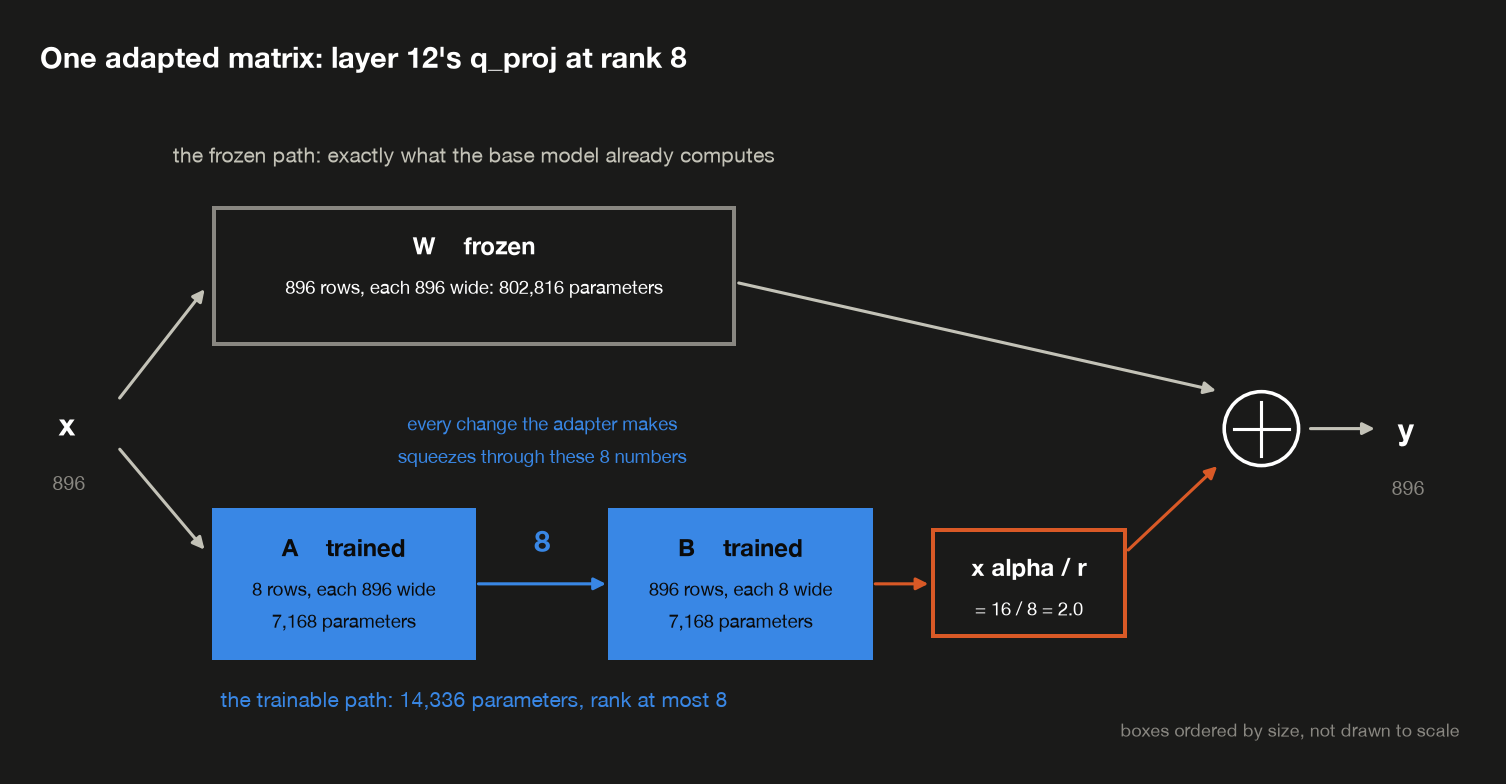
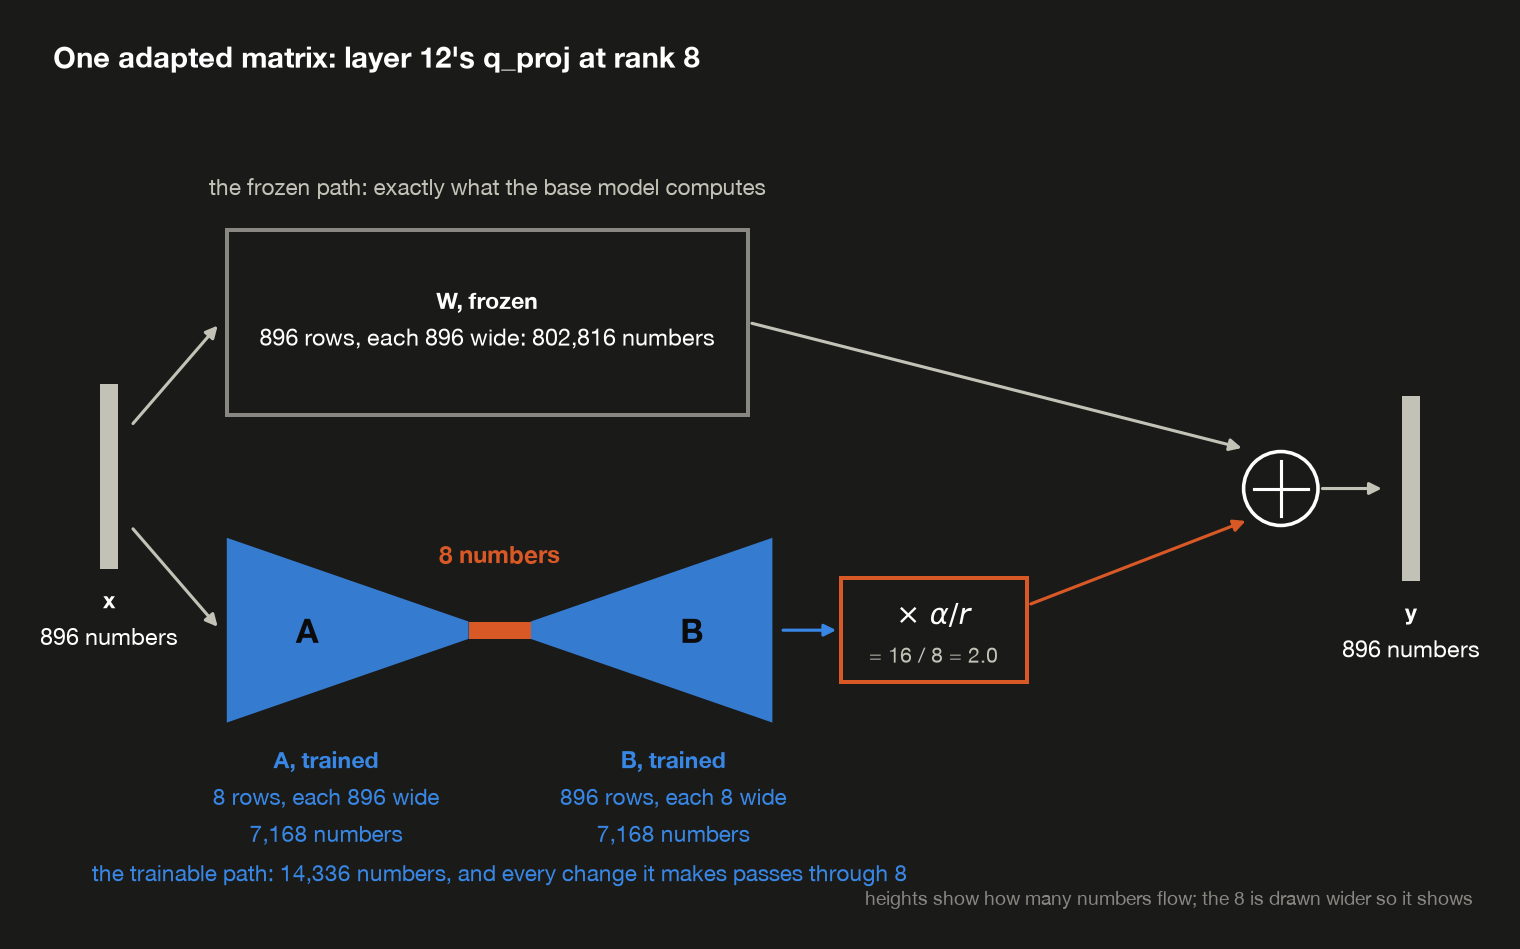
Post 6: rank section rewritten from Han's draft, with a figure; mechanism figure moved to §2 and redrawn

diff --git a/_posts/2026-09-26-llm-architectures-lora.md b/_posts/2026-09-26-llm-architectures-lora.md
@@ -68,16 +68,26 @@ The catch, and the subject of most of this post, is what the overlay is allowed 
 
 That limit is called **rank**, and it's the one idea you need for the rest of this post.
 
-### What rank means, in one paragraph
+### What rank means
 
-A matrix is a grid of numbers, and its **rank** is how many genuinely independent directions of information it holds. A grid of 896 rows and 896 columns *could* hold 896 independent directions, and that's the most it could have. It might hold far fewer: if every row of a matrix is just some multiple of one single row, then however large the grid is, it carries one direction's worth of information, and its rank is 1. **Low rank means a big grid whose contents are simpler than its size suggests.**
+A matrix is a grid of numbers, so start with a small one:
 
-The useful thing is that a low-rank grid can be *built* out of two thin ones. Multiply a grid of 896 rows and 8 columns by a grid of 8 rows and 896 columns and you get a full 896 × 896 grid back, but one that can never have rank above 8, because the 8 in the middle is a bottleneck everything has to squeeze through. That product is what LoRA trains. It's the same shape as the weight it modifies, and [§2](#the-mechanism) shows it's **56× smaller** to store.
+$$
+\begin{pmatrix} 1 & 2 & 3 \\ 2 & 4 & 6 \\ 3 & 6 & 9 \end{pmatrix}
+$$
 
-So the adapter is not an approximation of the model. It's a *complete* change to the weights, drawn under a restriction on how complicated that change may be.
+It has nine numbers, but it isn't really holding nine pieces of information. Every row is just the first row times something: ×1, ×2, ×3. Once you know the row 1 2 3 and the multipliers 1, 2, 3, you can rebuild the whole grid. That's six numbers instead of nine.
 
-![One adapted matrix: the frozen weight on top, the two trainable matrices below it squeezing through a rank-8 bottleneck, the alpha/r scaling, and the sum of the two paths](/assets/picture/2026-09-26-llm-architectures-lora/lora-mechanism-light.png){: .light width="1000" height="521" }
-![One adapted matrix: the frozen weight on top, the two trainable matrices below it squeezing through a rank-8 bottleneck, the alpha/r scaling, and the sum of the two paths](/assets/picture/2026-09-26-llm-architectures-lora/lora-mechanism-dark.png){: .dark width="1000" height="521" }
+That's what **rank** measures: how many independent rows a grid really has, once you set aside the ones you can build by adding up multiples of the others. This grid has rank 1.
+
+Notice how we rebuilt it: a column (the multipliers) times a row. A thin piece times a thin piece gives a full grid. The general rule is that if you multiply a tall, thin grid by a short, wide one, the result is full-sized, but its rank can't exceed the width the two pieces share, because everything has to squeeze through that narrow middle. The figure's middle row shows it with two columns times two rows. The result has three rows, but the third is the first two added together, so its rank is 2.
+
+![What rank means: a 3 by 3 grid rebuilt as a column times a row, a rank-2 grid whose third row is the sum of the first two, and LoRA's 896 by 8 times 8 by 896 product](/assets/picture/2026-09-26-llm-architectures-lora/rank-explained-light.png){: .light width="1000" height="807" }
+![What rank means: a 3 by 3 grid rebuilt as a column times a row, a rank-2 grid whose third row is the sum of the first two, and LoRA's 896 by 8 times 8 by 896 product](/assets/picture/2026-09-26-llm-architectures-lora/rank-explained-dark.png){: .dark width="1000" height="807" }
+
+Now scale up. Take `q_proj`, one of the weight matrices in this post's model: 896 × 896, about 800,000 numbers. LoRA adds two thin matrices beside it, one 896 × 8 and one 8 × 896, and trains only those. Their product is a full 896 × 896 change to the weight, but it can have rank at most 8, and the two thin pieces take 56× less storage than the full grid ([§2](#the-mechanism) counts it).
+
+So the adapter isn't a blurry or partial copy of the model. It's a change to every entry of the full weight matrix, restricted to rank 8. That also makes it an approximation of something else: the change a full fine-tune would have made, which is free to use any rank. Whether the restriction matters depends on whether the change you need is simple enough to fit, and [§6](#why-low-rank-works) measures how far a real full fine-tune's change is from fitting.
 
 The rest of the post asks what that restriction costs. It turns out to depend almost entirely on what you're trying to teach the model, and [§5](#what-rank-buys) measures two tasks that answer the question in opposite directions.
 
@@ -185,6 +195,9 @@ $$y = W x + \frac{\alpha}{r}\,B\,A\,x$$
 Read it right to left. The token's vector $x$ goes two ways. Down the frozen path it meets $W$ and produces exactly what the base model would have produced. Down the trainable path it meets $A$ first, which squeezes 896 numbers down to 8, then $B$, which expands those 8 back out to 896. The two results are added, and the sum is what the next layer sees.
 
 **The bottleneck is the idea.** Everything the adapter can ever do to this matrix has to pass through those 8 numbers in the middle. That's what makes $BA$ a rank-8 matrix no matter how its entries are trained, and it's what makes the adapter small.
+
+![One adapted matrix: the frozen weight W on top; below, A narrows 896 numbers down to 8 and B widens them back to 896, scaled by alpha over r, and the two paths are added](/assets/picture/2026-09-26-llm-architectures-lora/lora-mechanism-light.png){: .light width="1000" height="624" }
+![One adapted matrix: the frozen weight W on top; below, A narrows 896 numbers down to 8 and B widens them back to 896, scaled by alpha over r, and the two paths are added](/assets/picture/2026-09-26-llm-architectures-lora/lora-mechanism-dark.png){: .dark width="1000" height="624" }
 
 Three details decide whether an implementation is right, and the demo checks each ([`the_mechanism`](https://github.com/bearbearyu1223/llm-architectures-refresher/blob/main/src/llmrefresher/demos/d06_lora.py)):
 
